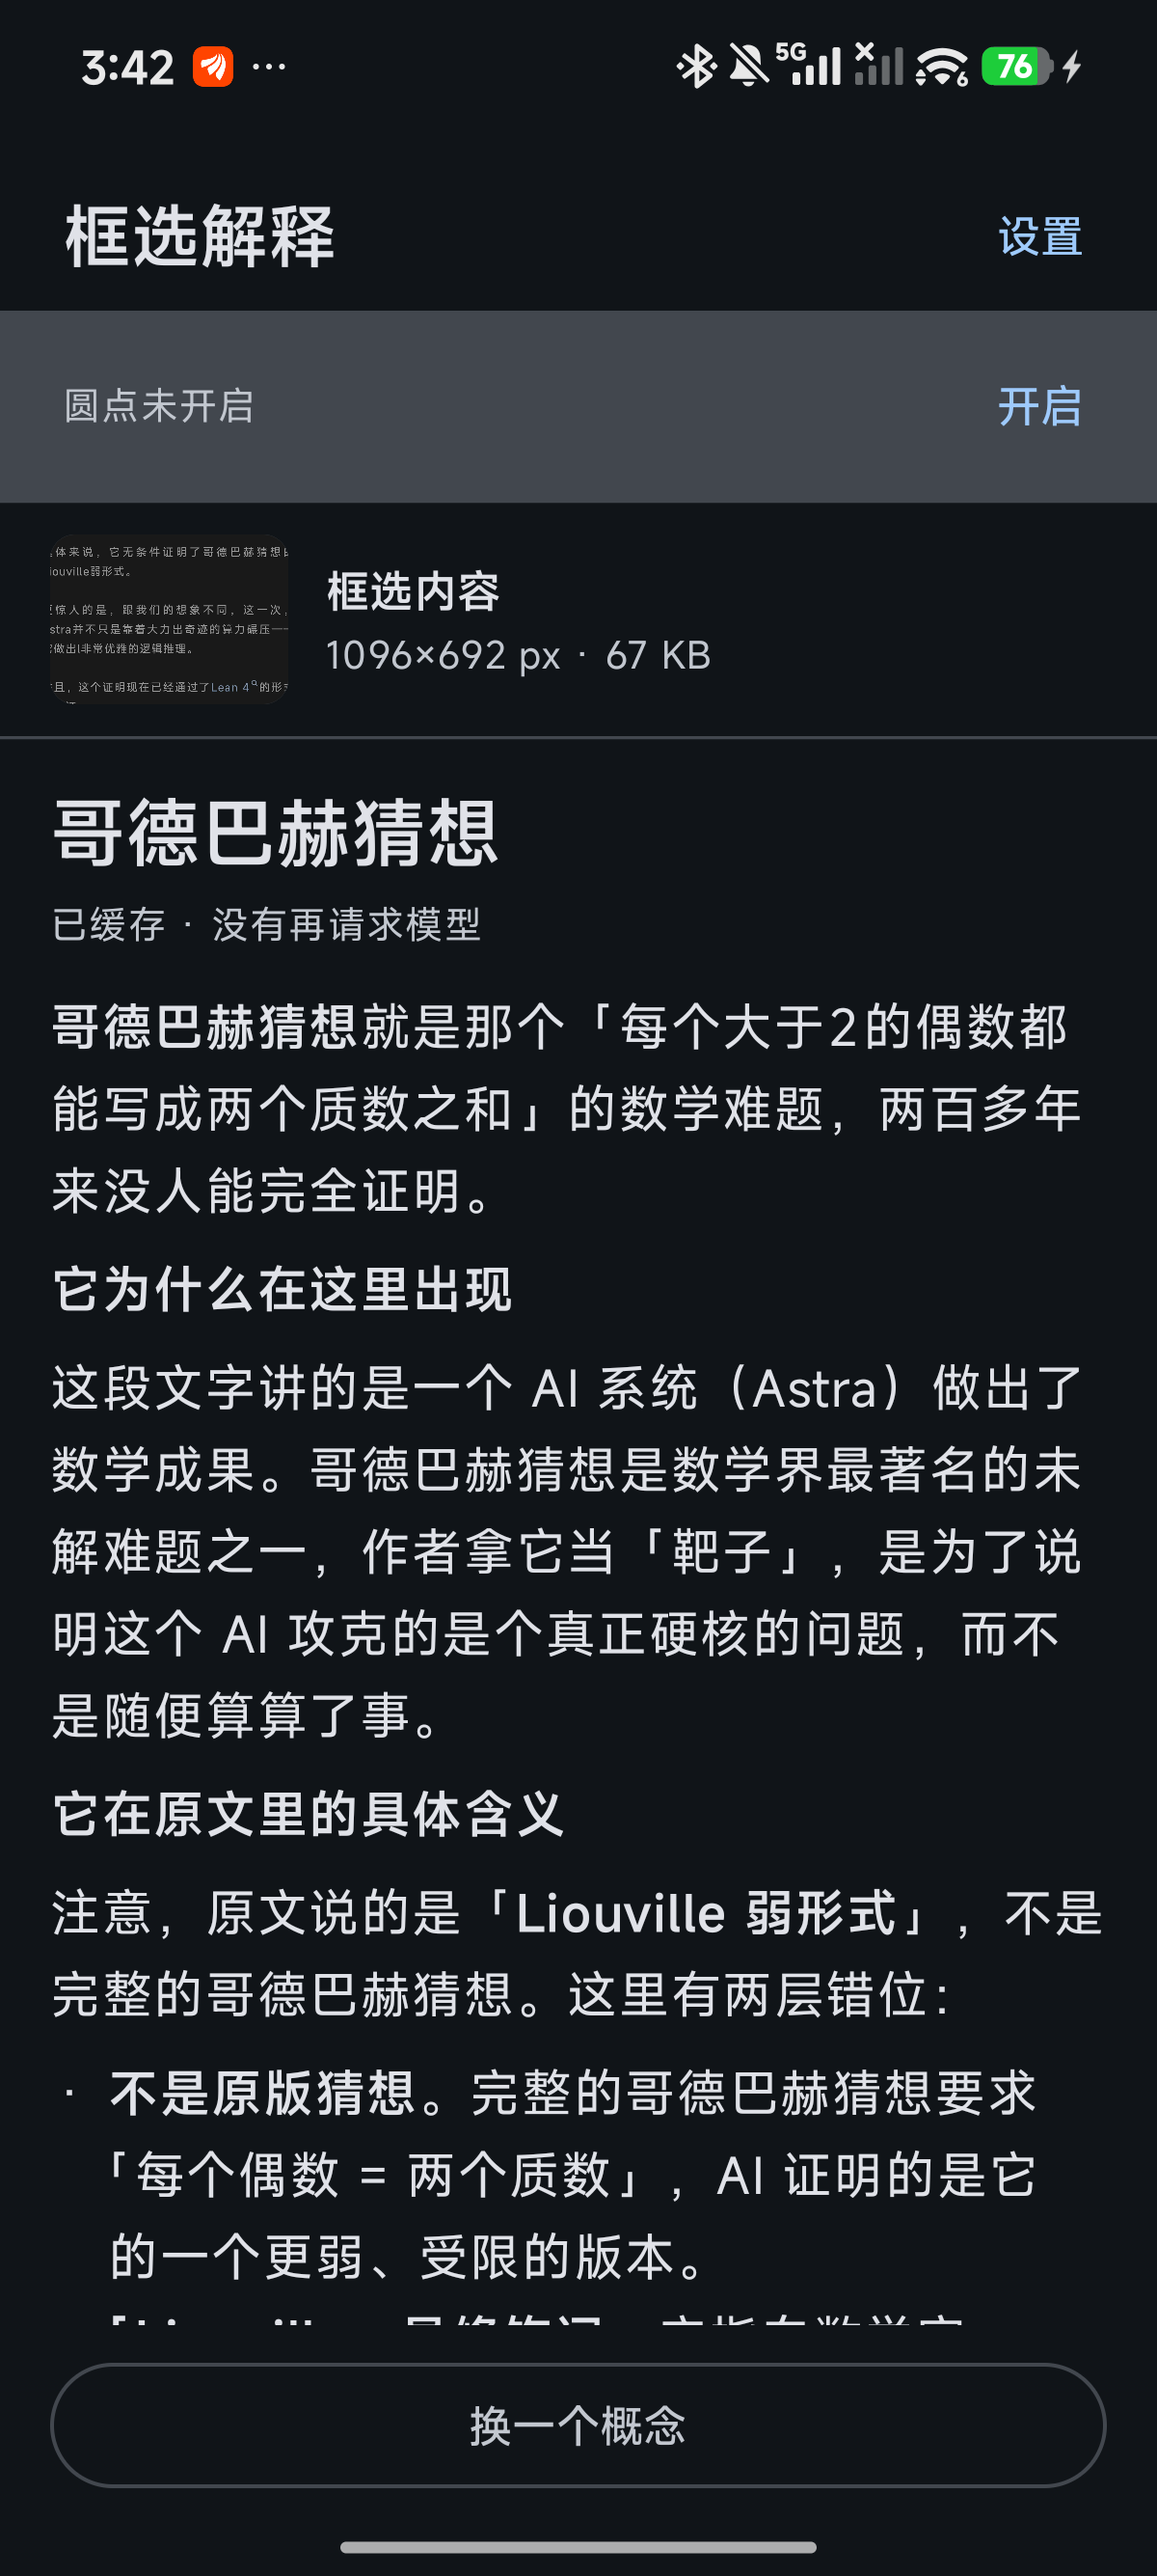
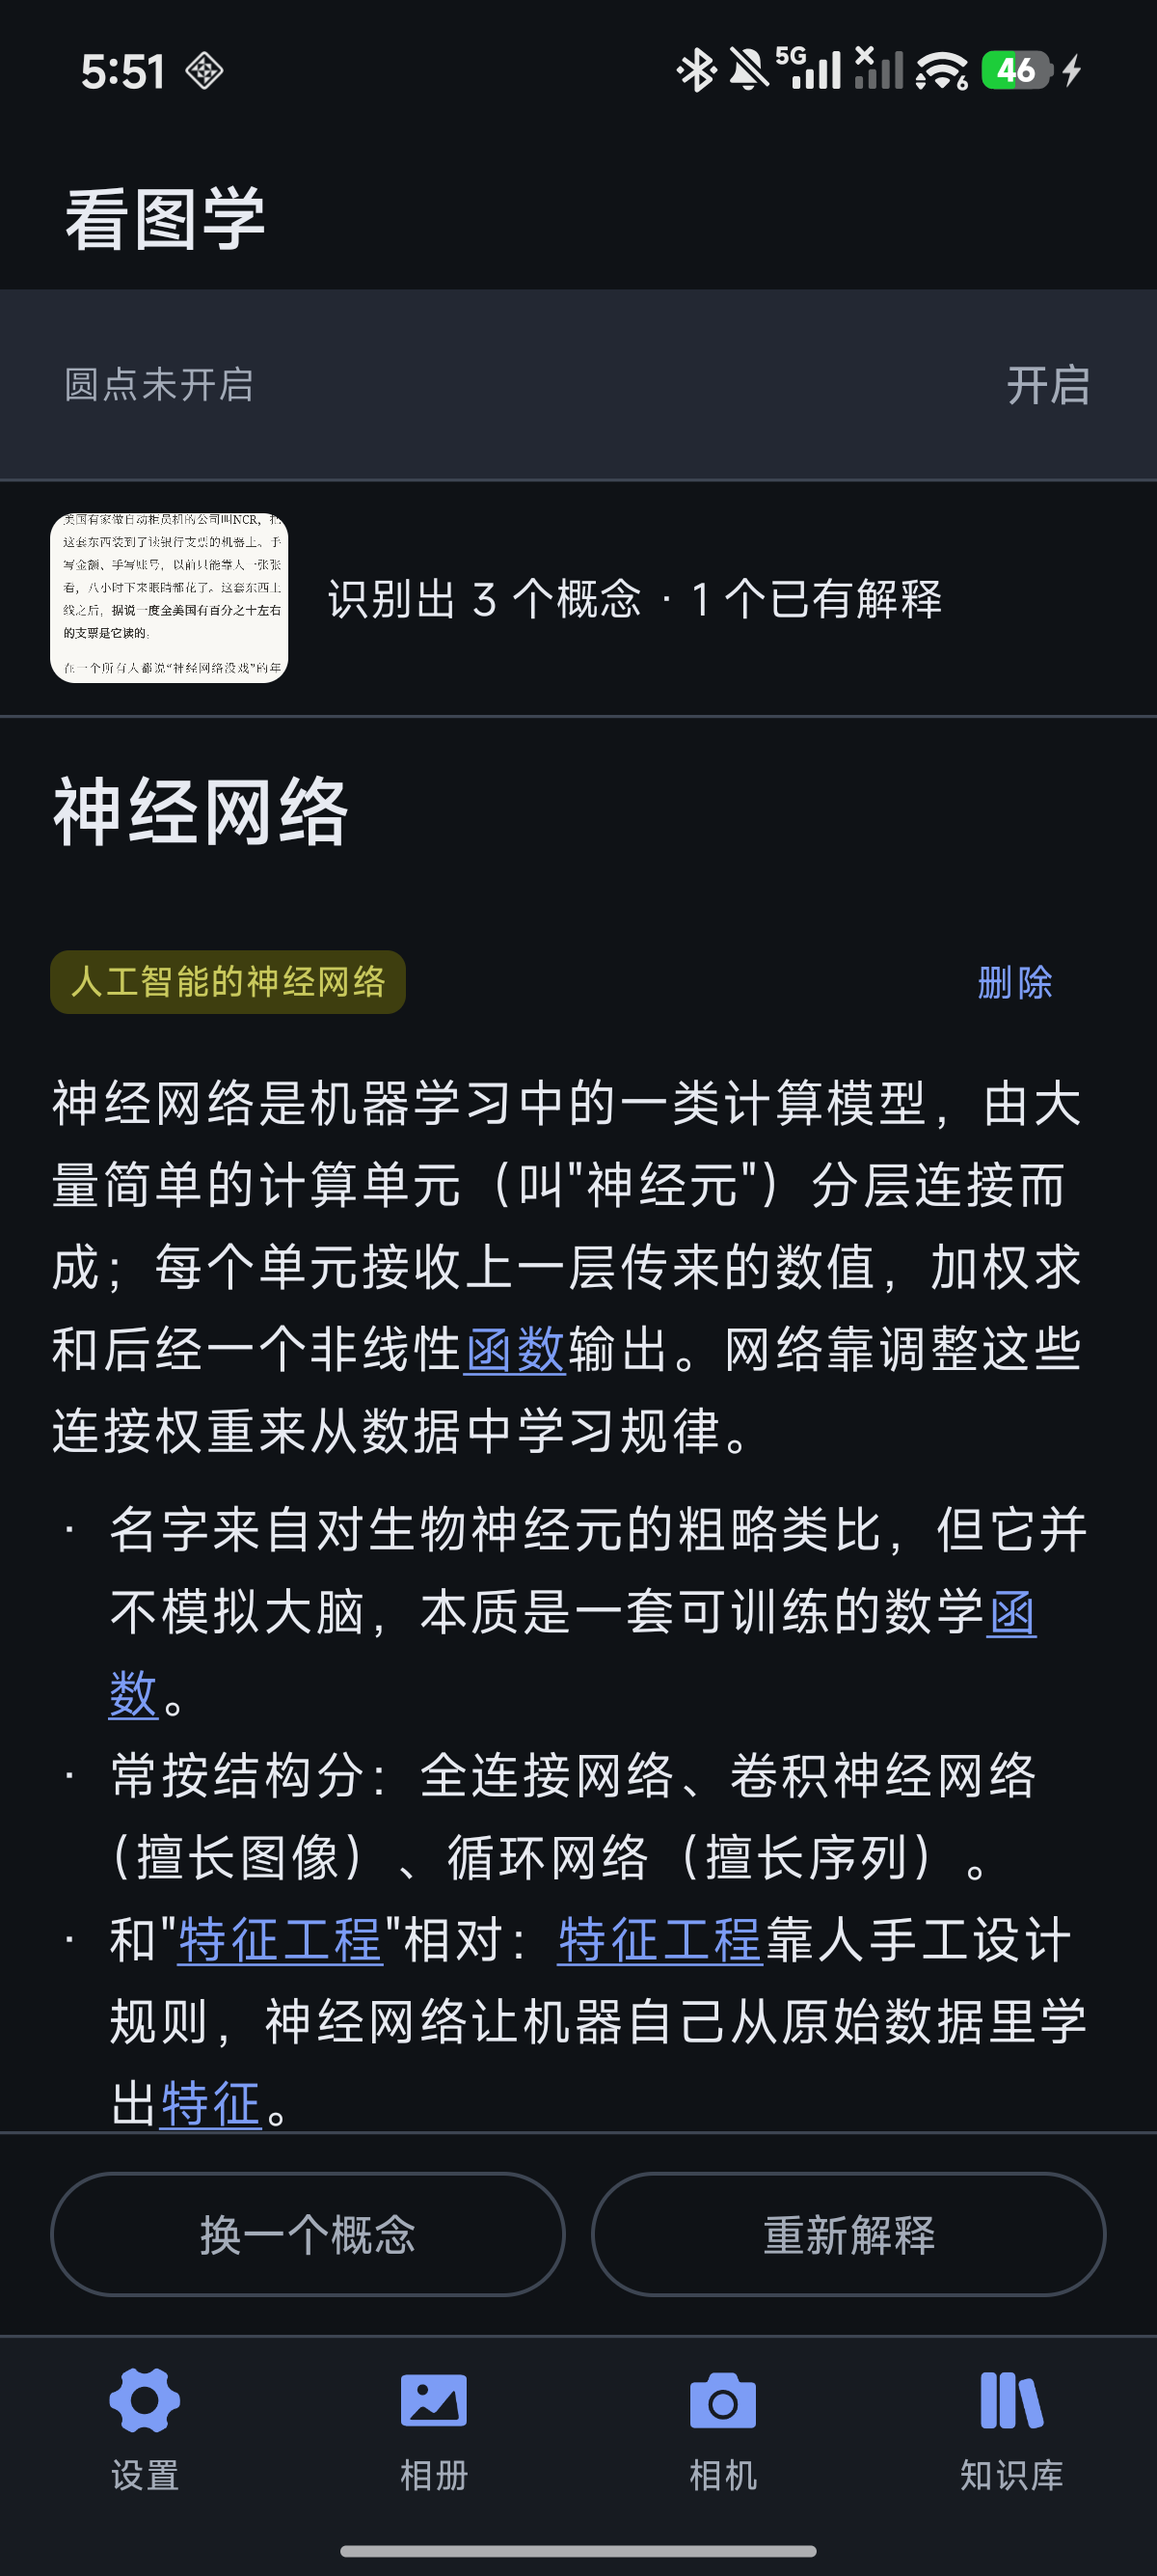
README：换掉两张过时的展示图，并订正三处与实现不符的说法
## 两张图

- shots/home.png 是 9-21 拍的，上面还是「框选解释」这个旧名字、
  右上角那个已经搬到底部栏的「设置」入口，以及那行后来删掉的
  「1104×1506 px · 211 KB」
- shots/detail_cached.png 同一天拍的，同样的旧名字与旧入口

都重拍了。首页那张刻意保留了「圆点未开启」那一条 —— 和原来那张一致，
也是第一次打开的人会看到的样子。

## 三处说法与实现不符

1. **「底部还有『对话理解』」挂错了页。** 那个按钮在**概念列表**，
   不在解释页（代码里在 ConceptListPanel，不在 TermPanel）。
   挪到第 3 步里说。

2. **「换一个概念」一次弹到底 —— 按钮名不对。** 栈深超过 1 时，
   一次弹到底的那个按钮叫「回到概念列表」；「换一个概念」只在栈底出现。
   这个说法从首次提交起就是错的。

3. **「已缓存 · 没有再请求模型」这个标注不存在。**
   alt 文字里写着「标题下标注」，但全树搜下来这串字只出现在 README 自己身上 ——
   代码里从来没有过，连首次提交都没有。那张截图拍的是一个更早的构建，
   标注在那之后、首次提交之前就被去掉了，README 一直没跟上。
   现在按实际界面改（解释页只有义项分节和可点的相邻术语）。

## 验证

重拍后在设备上按 dump 逐条核对了界面文字，四张图引用的文件都还在
（dot_new_on_wallpaper / home / detail_cached / kb_final）。

diff --git a/README.md b/README.md
@@ -12,12 +12,12 @@
 
 <p align="center">
   <img src="shots/dot_new_on_wallpaper.png" width="220" alt="屏幕上的圆点与底部入口">
-  <img src="shots/home.png" width="220" alt="首页：上次框选的内容">
-  <img src="shots/detail_cached.png" width="220" alt="解释详情，标题下标注「已缓存 · 没有再请求模型」">
+  <img src="shots/home.png" width="220" alt="首页：框选之后挑出来的概念">
+  <img src="shots/detail_cached.png" width="220" alt="解释详情：按义项分节，正文里其他术语可以继续点开">
   <img src="shots/kb_final.png" width="220" alt="知识库：按拼音首字母分组">
 </p>
 
-<p align="center"><sub>左起：圆点常驻在别的应用之上 · 首页 · 命中本地库的解释 · 知识库</sub></p>
+<p align="center"><sub>左起：圆点常驻在别的应用之上 · 首页挑出的概念 · 解释正文 · 知识库</sub></p>
 
 ---
 
@@ -29,11 +29,11 @@
 |---|---|---|
 | 1 | **长按圆点** | 圆点会先隐身并震一下——那一震是唯一的反馈，因为屏幕上正好什么都看不见 |
 | 2 | **接着划出范围** | 手指不用松开，长按达成后继续滑就是框选；在这期间屏幕上会被覆一层遮罩 |
-| 3 | **看概念列表** | 松手即截图，结果直接落在首页：这页里那几个词值得解释 |
-| 4 | **点进去读** | 解释按「义项」分节。正文里其他概念是可点链接，底部还有「对话理解」 |
+| 3 | **看概念列表** | 松手即截图，结果直接落在首页：这页里那几个词值得解释。底部两个按钮是「重新识别」和「对话理解」 |
+| 4 | **点进去读** | 解释按「义项」分节。正文里其他概念就是可点的链接，可以一路读下去 |
 
 途中随时能按系统返回键往回走，回到上一层的概念——跳转历史是一整条栈，
-可以 A→B→C 再按三次返回依次退回。钻深了还有「换一个概念」一次弹到底。
+可以 A→B→C 再按三次返回依次退回。钻深了还有「回到概念列表」一次弹到底。
 
 圆点可以拖到屏幕任意位置，位置会记住。它在横竖屏切换后也会被拉回屏幕内。
 
